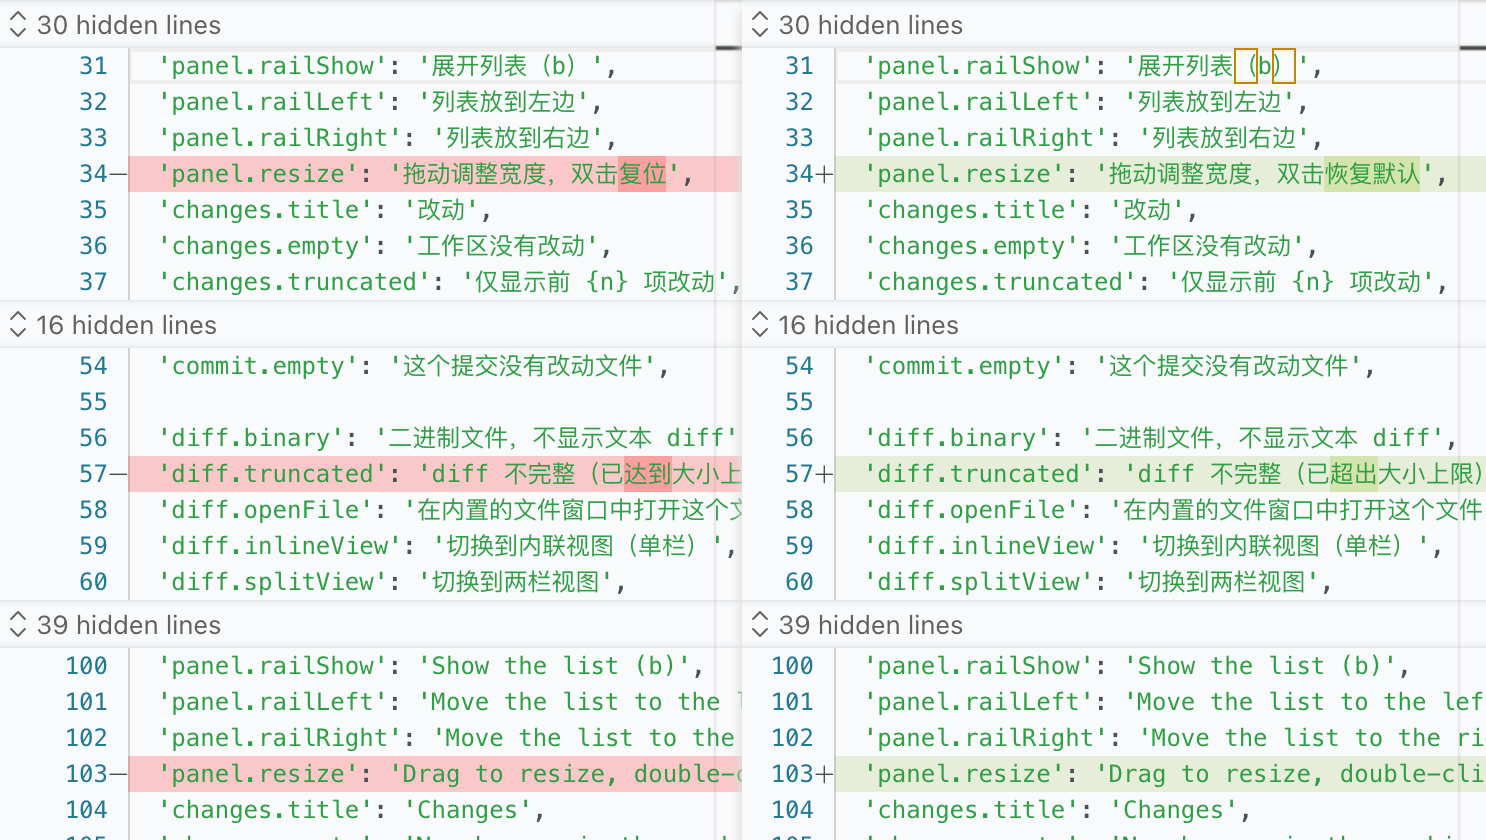
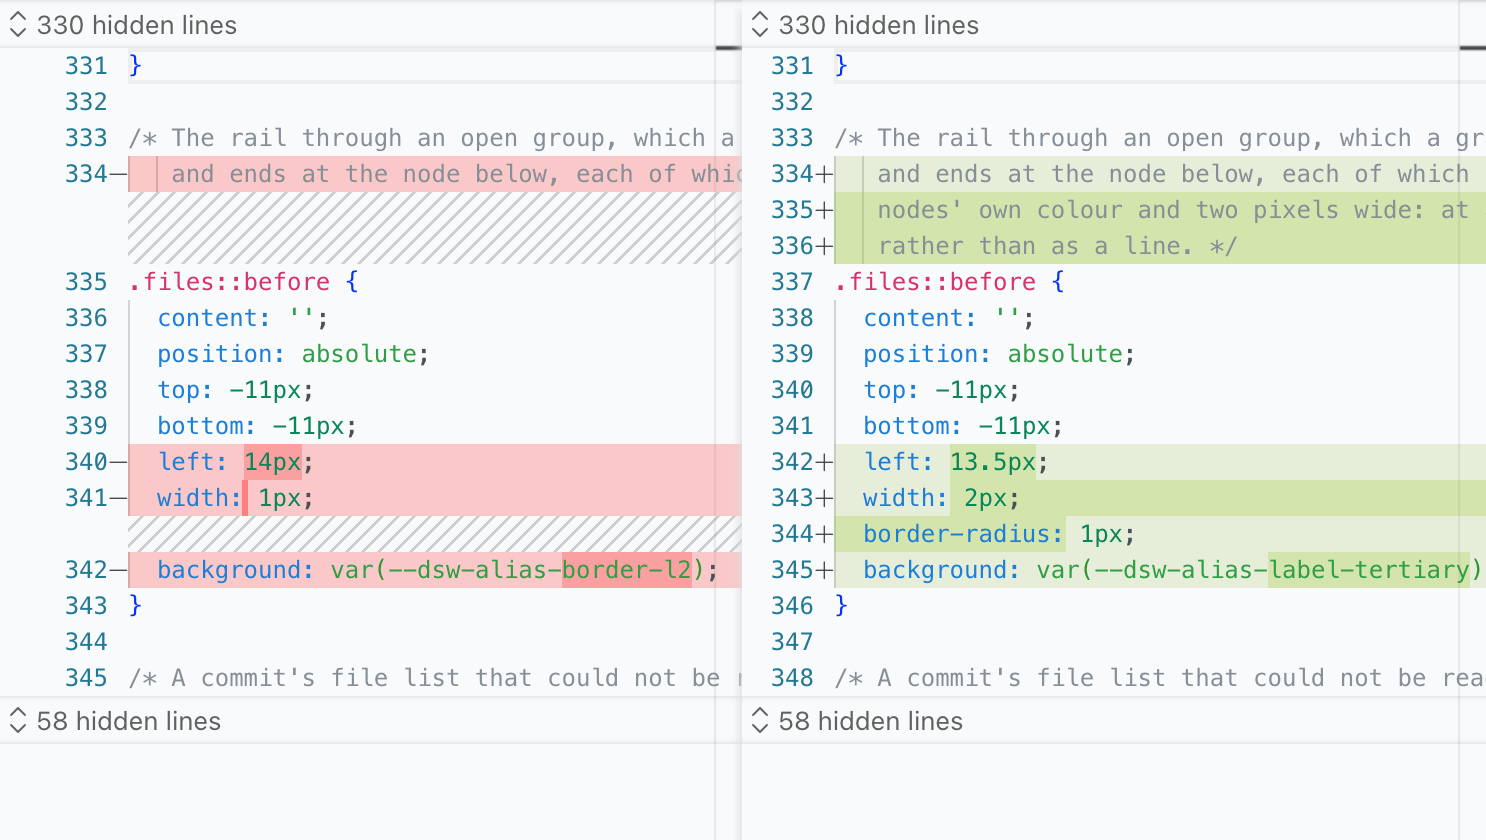
Make the rail through an open commit visible
A hairline in the divider colour read as a seam between two blocks rather than as the line a
graph would draw: it is two pixels now, in the colour the nodes themselves are drawn with, and
offset half a pixel so it stays centred on their column. The readme's screenshots are taken
against this change, so the two-column shot shows the rule it moved.

Changed region(s): [[0.0, 0.0, 1.0, 1.0]]

diff --git a/src/client/List.module.css b/src/client/List.module.css
@@ -331,15 +331,18 @@
 }
 
 /* The rail through an open group, which a graph would draw: it starts at the node above
-   and ends at the node below, each of which sits half a row past this box. */
+   and ends at the node below, each of which sits half a row past this box. It is drawn in the
+   nodes' own colour and two pixels wide: at a hairline of the border colour it read as a seam
+   rather than as a line. */
 .files::before {
   content: '';
   position: absolute;
   top: -11px;
   bottom: -11px;
-  left: 14px;
-  width: 1px;
-  background: var(--dsw-alias-border-l2);
+  left: 13.5px;
+  width: 2px;
+  border-radius: 1px;
+  background: var(--dsw-alias-label-tertiary);
 }
 
 /* A commit's file list that could not be read. */

diff --git a/tests/browser/diff.spec.ts b/tests/browser/diff.spec.ts
@@ -219,7 +219,7 @@ test('joins an open commit to the one below it, and spaces it evenly', async ({ 
   expect(history.above, 'the open commit has a node').not.toBeNull()
   expect(history.below, 'the commit below it has one too').not.toBeNull()
   // A graph would draw this line; a list has to draw it, or the files look detached.
-  expect(history.width, 'the rail is a hairline').toBe(1)
+  expect(history.width, 'the rail is two pixels of the nodes colour').toBe(2)
   expect(history.centre, 'the rail runs through the nodes').toBe(history.above?.x)
   expect(history.top, 'it starts at the node above').toBe(history.above?.y)
   expect(history.bottom, 'and ends at the node below').toBe(history.below?.y)
